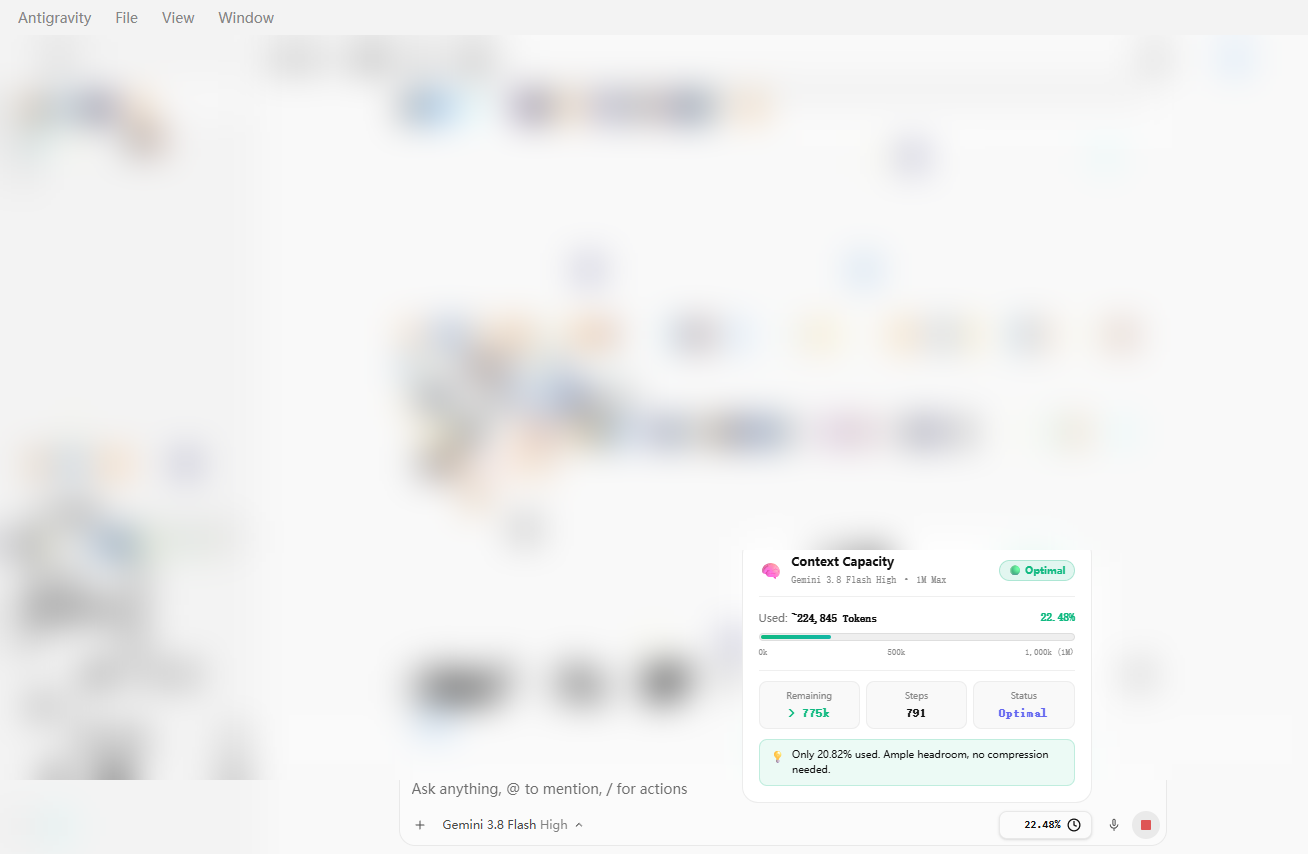
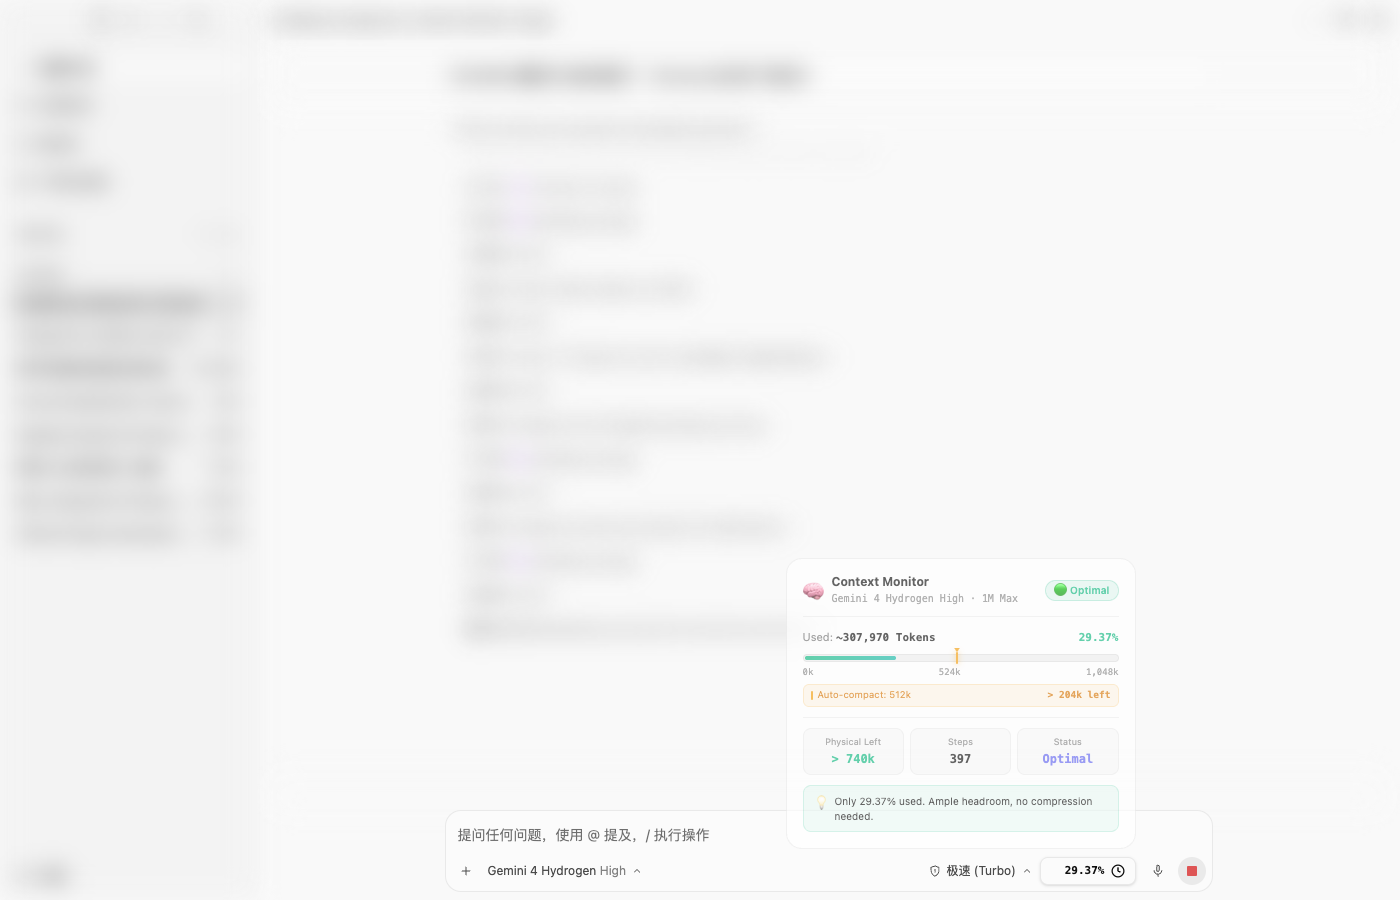
docs: update README copy and screenshots for v1.4.0

diff --git a/skills/context-monitor/scripts/daemon_sync.py b/skills/context-monitor/scripts/daemon_sync.py
@@ -91,11 +91,11 @@ def get_model_limit(model_name):
     if "pro" in m and "1.5" in m:
         return 2_097_152, "2M", "1M", "2M", 512_000
     if any(k in m for k in ["gemini 4", "gemini-4", "hydrogen", "argon", "carbon"]):
-        return 1_048_576, "1,048k", "524k", "1,048k", 512_000
+        return 1_048_576, "1M", "524k", "1,048k", 512_000
     if "3.8" in m:
-        return 1_048_576, "1,048k", "524k", "1,048k", 256_000
+        return 1_048_576, "1M", "524k", "1,048k", 256_000
     if "gemini" in m:
-        return 1_048_576, "1,048k", "524k", "1,048k", 128_000
+        return 1_048_576, "1M", "524k", "1,048k", 128_000
     return 1_000_000, "1M", "500k", "1,000k (1M)", 512_000
 
 def compute_conv_stats(conv_id, model_name=None):

diff --git a/README.md b/README.md
@@ -2,6 +2,7 @@
 ### Google Antigravity 上下文监控插件
 
 <p align="center">
+  <img src="https://img.shields.io/badge/Version-v1.4.0-purple?style=flat-square" alt="Version v1.4.0" />
   <img src="https://img.shields.io/badge/Antigravity-2.0%20Desktop-blue?style=flat-square" alt="Antigravity 2.0" />
   <img src="https://img.shields.io/badge/Language-Bilingual%20(ZH%20%7C%20EN)-emerald?style=flat-square" alt="Bilingual" />
   <img src="https://img.shields.io/badge/Python-3.9+-yellow?style=flat-square" alt="Python 3.9+" />
@@ -29,11 +30,21 @@ A lightweight, real-time context window and token usage monitor custom-built for
 
 - **⚡ Native Input Bar Integration**: Injects seamlessly into the bottom input toolbar without modifying any Antigravity application binaries.
 - **🎨 350px Floating Dashboard (Hover to Expand)**:
-  - **Dynamic Model & Limit Detection**: Reads active model in real-time (e.g., `Gemini 4 Hydrogen High · 1,048k`, `Claude Opus 5.5 · 1M`, `GPT-OSS 120B · 128k`) and adapts progress scale automatically.
-  - **Auto-Compact Threshold Marker**: Highlights Antigravity's actual Checkpointer auto-compaction trigger line (`512k` / `256k` / `128k` / `80k`) directly on the progress bar along with remaining headroom before compaction.
+  - **Dynamic Model & Limit Detection**: Reads active model in real-time (e.g., `Gemini 4 Hydrogen High · 1M Max`, `Claude Opus 5.5 · 1M Max`, `GPT-OSS 120B · 128k Max`) and adapts the progress bar scale automatically.
+  - **Auto-Compact Threshold Marker**: Displays an amber marker on the progress bar showing Antigravity's actual Checkpointer auto-compaction trigger (`512k` / `256k` / `128k` / `80k`) and live remaining headroom before compaction.
   - **Color-Coded Status Pulse**: 🟢 Optimal ｜ 🟡 Near Auto-Compact ｜ 🔴 Compact Soon.
-  - **3 Metric Blocks**: Remaining physical space, interaction steps, and health status.
-  - **Context Advice**: Provides timely tips for summarizing or running `/compact`.
+  - **3 Metric Blocks**: Physical remaining space, interaction steps, and model status.
+  - **Context Advice**: Timely guidance for summarizing or running `/compact`, plus in-chat Markdown cards via `generate_monitor.py` with `│` threshold markers.
+
+#### Supported Model Limits & Auto-Compact Thresholds
+
+| Model Family | Physical Window | Auto-Compact Threshold |
+| :--- | :--- | :--- |
+| **Gemini 4 Hydrogen / Argon / Carbon** | `1,048k` (`1M`) | **`512k`** |
+| **Gemini 3.8 Flash** | `1,048k` (`1M`) | **`256k`** |
+| **Claude Opus 5.5 / Sonnet 5.5** | `1,000k` (`1M`) | **`256k`** |
+| **Gemini 3 Flash / 2.5 Pro / 3.5 Lite** | `1,048k` (`1M`) | **`128k`** |
+| **GPT-OSS 120B (Medium)** | `131k` (`128k`) | **`80k`** |
 - **🌐 Automatic Bilingual Selection**:
   - Automatically identifies system language. If Chinese (`zh`) -> Chinese UI; if non-Chinese -> English UI.
   - Engineered with strict layout constraints to prevent English text overflow, line breaks, or font misalignment.
@@ -73,11 +84,21 @@ A lightweight, real-time context window and token usage monitor custom-built for
 
 - **⚡ 输入框原生嵌入**：无缝融入 Antigravity 2.0 底部工具栏（麦克风图标正前方），丝滑契合原生暗色与明色主题。
 - **🎨 350px 悬浮大卡片（鼠标悬停即弹）**：
-  - **动态模型与真实上限感知**：实时捕获当前选用的模型（如 `Gemini 4 Hydrogen High · 1,048k`、`Claude Opus 5.5 · 1M`、`GPT-OSS 120B · 128k`），自动切换刻度尺与上限。
+  - **动态模型与真实上限感知**：实时捕获当前选用的模型（如 `Gemini 4 Hydrogen High · 1M 上限`、`Claude Opus 5.5 · 1M 上限`、`GPT-OSS 120B · 128k 上限`），自动切换刻度尺与上限。
   - **自动压缩阈值标线**：在进度条上直观标出 Antigravity 实际的 Checkpointer 自动压缩触发线（如 `512k` / `256k` / `128k` / `80k`），并实时提示“距触发压缩还剩多少空间”。
   - **三色呼吸警示灯**：🟢 极度充裕 ｜ 🟡 接近压缩线 ｜ 🔴 即将压缩。
   - **三核心指标网格**：物理剩余空间、累计交互步数、模型状态。
-  - **阶段健康建议**：精准的阶段性总结与 `/compact` 压缩提示。
+  - **阶段健康建议**：精准的阶段性总结与 `/compact` 压缩提示，同时支持通过对话 Skill 输出带 `│` 压缩标线的 Markdown 进度条卡片。
+
+#### 支持模型窗口与自动压缩阈值对照
+
+| 模型系列 | 物理窗口 (`maxTokens`) | 自动压缩阈值 (`max_token_limit`) |
+| :--- | :--- | :--- |
+| **Gemini 4 Hydrogen / Argon / Carbon** | `1,048k` (`1M`) | **`512k`** |
+| **Gemini 3.8 Flash** | `1,048k` (`1M`) | **`256k`** |
+| **Claude Opus 5.5 / Sonnet 5.5** | `1,000k` (`1M`) | **`256k`** |
+| **Gemini 3 Flash / 2.5 Pro / 3.5 Lite** | `1,048k` (`1M`) | **`128k`** |
+| **GPT-OSS 120B (Medium)** | `131k` (`128k`) | **`80k`** |
 - **🌐 中英双语自动切换（非中文 ➡ 英文）**：
   - 自动读取系统语言：中文环境直接显示中文，非中文环境（英文等）自动呈现为地道的英文排版。
   - 针对英文字符较长特点进行了专门的防溢出重构，绝不发生折行、错位或内容截断。
